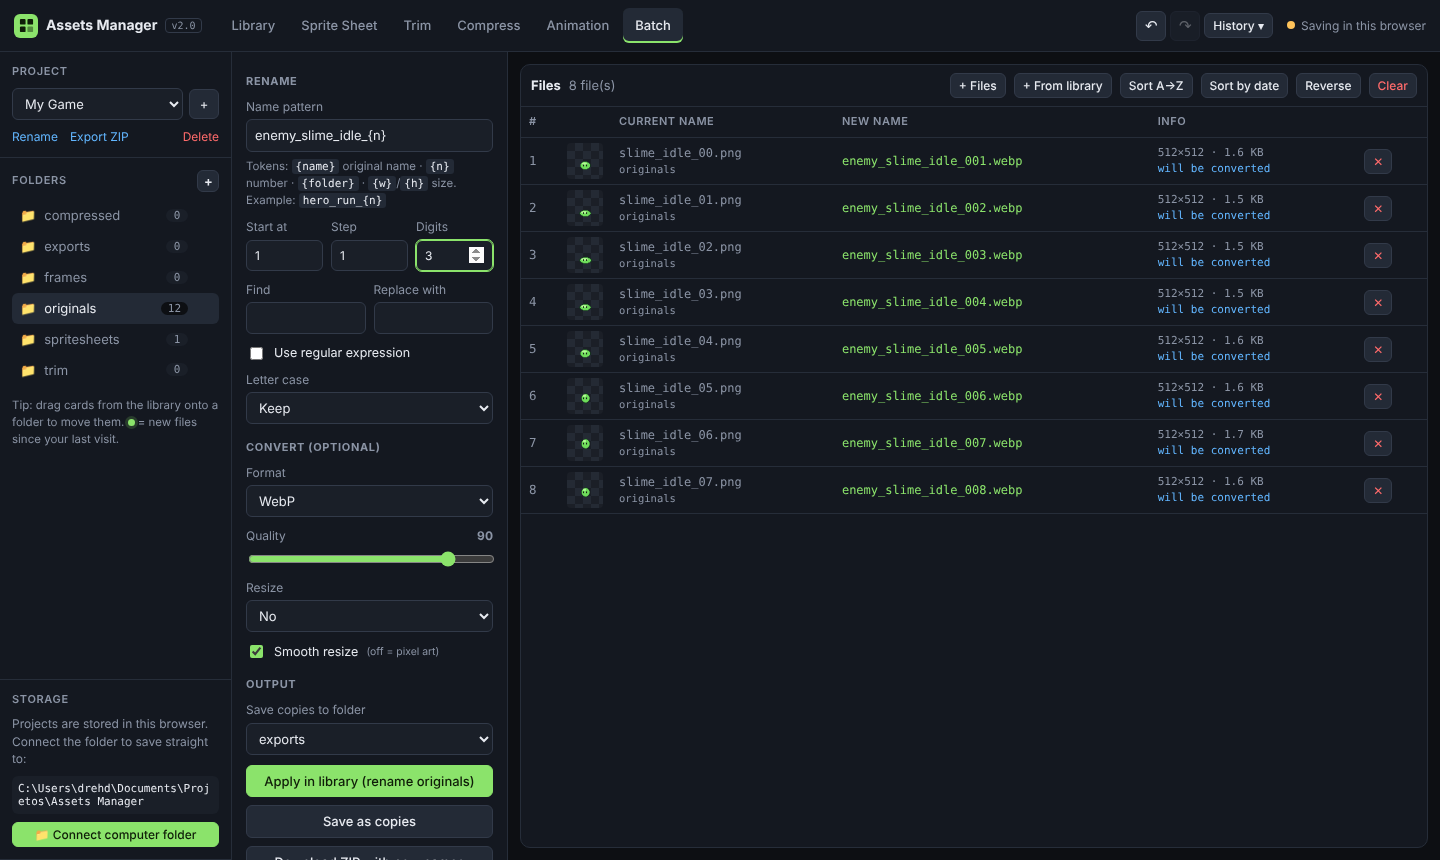
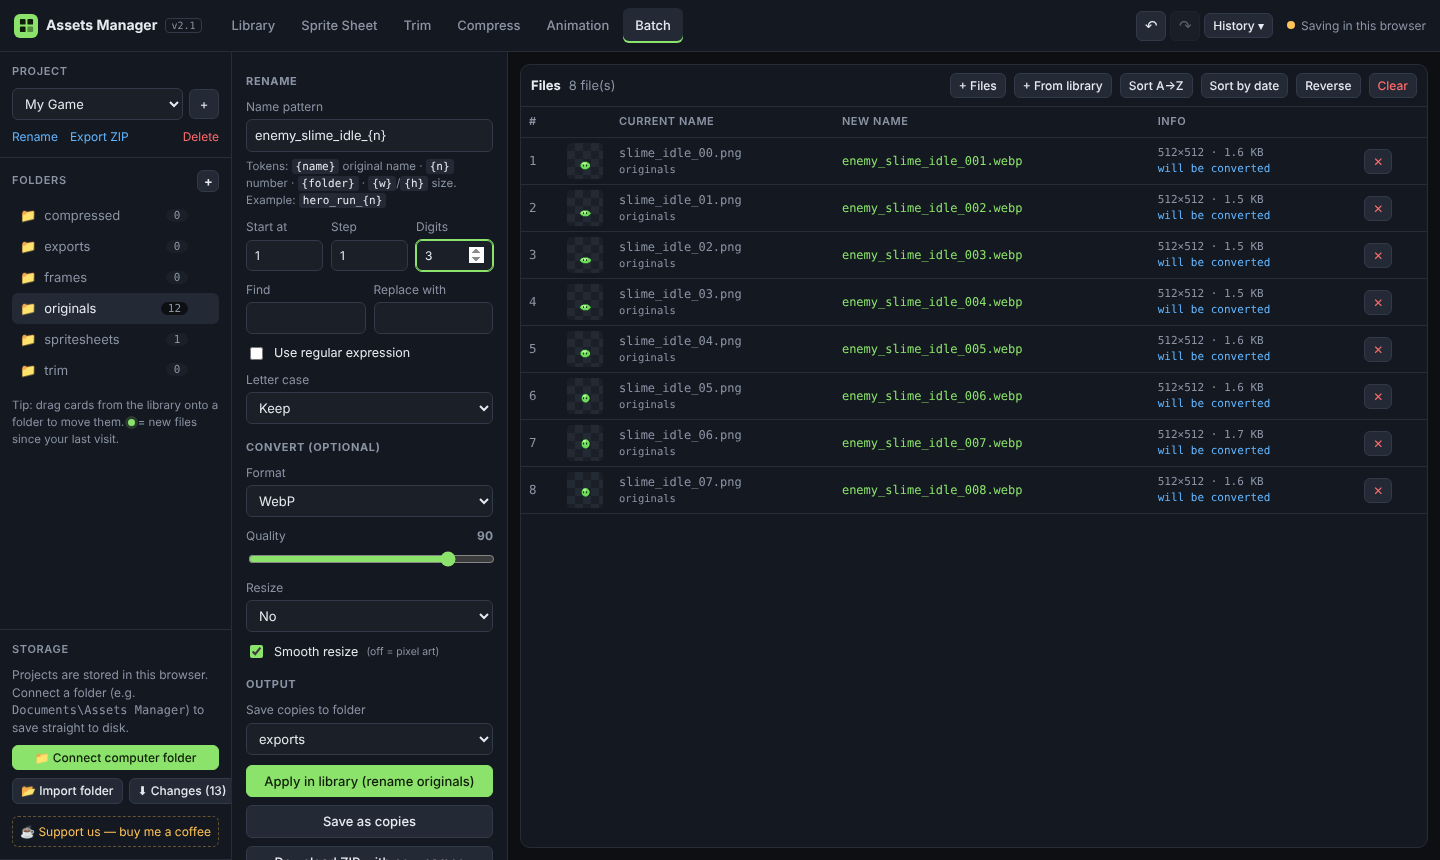
v2.1.0: folder sync for any browser + Support link
- Import folder (webkitdirectory) reads a whole folder tree into
  projects/folders in Firefox, Safari and every other browser
- Download changes: ZIP with only new/modified files, same structure,
  ready to extract over the Assets Manager folder
- Connect computer folder only shown where the File System Access API exists
- Select the first non-empty folder when opening a project
- Buy Me a Coffee support link in the app, README and FUNDING.yml
- Docs, tutorial and screenshots updated

Claude-Session: https://claude.ai/code/session_015Q85gZaRLgoCTDuuC3bRzS

Changed region(s): [[0.0, 0.7256, 0.1562, 0.9977]]

diff --git a/js/app.js b/js/app.js
@@ -5,7 +5,9 @@ const App = {
   assets: [], selected: new Set(), lastClicked: null, filter: '',
   urls: new Map(), tab: 'library',
 };
-const ROOT_HINT = 'C:\\Users\\drehd\\Documents\\Projetos\\Assets Manager';
+const ROOT_HINT = 'Documents\\Assets Manager';
+const SUPPORT_URL = 'https://buymeacoffee.com/drehdantas';
+const canPickDir = () => 'showDirectoryPicker' in window && window.self === window.top;
 const TABS = ['library', 'sheet', 'trim', 'compress', 'anim', 'batch'];
 const assetKey = a => `${a.project}/${a.folder}/${a.name}`;
 function assetURL(a) {
@@ -20,7 +22,7 @@ async function snap(a) {
   const blob = App.backend.kind === 'disk' ? new Blob([await a.blob.arrayBuffer()], { type: a.blob.type || mimeOf(a.name) }) : a.blob;
   return { project: a.project, folder: a.folder, name: a.name, meta: a.meta || null, blob };
 }
-async function afterLibChange() { await refreshFolders(App.folder); }
+async function afterLibChange() { await refreshFolders(App.folder); if (App.backend.kind !== 'disk') updateStorageUI(); }
 async function opSave(list, label, { record = true, refresh = true } = {}) {
   const be = App.backend; const done = [];
   for (const it of list) { const p = it.project || App.project; const name = await be.saveAsset(p, it.folder, it.name, it.blob, it.meta || null); done.push({ ...it, project: p, name }); }
@@ -90,8 +92,10 @@ async function refreshFolders(select) {
   if (!App.folders.length) { for (const f of DEFAULT_FOLDERS) await App.backend.createFolder(App.project, f); App.folders = await App.backend.listFolders(App.project); }
   const want = select || App.folder;
   const prev = App.folder;
-  App.folder = App.folders.includes(want) ? want : (App.folders.find(f => /^origina/i.test(f)) || App.folders[0]);
   try { App.stats = await App.backend.folderStats(App.project); } catch (e) { App.stats = {}; }
+  const cnt = f => (App.stats[f] || {}).count || 0;
+  const orig = App.folders.find(f => /^origina/i.test(f));
+  App.folder = App.folders.includes(want) ? want : (orig && cnt(orig) ? orig : (App.folders.find(f => cnt(f) > 0) || orig || App.folders[0]));
   for (const f of App.folders) if (!App.seen[seenKey(f)]) { const st = App.stats[f] || { count: 0, latest: 0 }; App.seen[seenKey(f)] = { t: st.latest, count: st.count }; }
   if (prev !== App.folder || !App.newSince) { const s = App.seen[seenKey(App.folder)]; App.newSince = s ? s.t : Date.now(); }
   markSeen(App.folder);
@@ -383,13 +387,103 @@ function updateStorageUI() {
         h('button', { class: 'btn sm', onclick: copyBrowserToDisk }, 'Copy browser projects → folder'),
         h('button', { class: 'btn sm', onclick: disconnectFolder }, 'Disconnect folder')));
   } else {
-    p.append(h('p', {}, 'Projects are stored in this browser. Connect the folder to save straight to:'),
-      h('div', { class: 'path' }, ROOT_HINT),
+    const direct = canPickDir();
+    const changesBtn = h('button', { class: 'btn sm', onclick: downloadChanges, title: 'Download what changed since the last import/sync as a ZIP with the same folder structure' }, '⬇ Download changes');
+    p.append(h('p', {}, direct ? 'Projects are stored in this browser. Connect a folder (e.g. ' : 'Projects are stored in this browser. This browser can\'t write to folders directly, so sync with your ', direct ? h('span', { class: 'mono' }, ROOT_HINT) : h('b', {}, 'Assets Manager folder'), direct ? ') to save straight to disk.' : ' using Import / Download changes.'),
       h('div', { class: 'stack' },
-        App.pendingHandle ? h('button', { class: 'btn sm primary', onclick: reconnectFolder }, `Reconnect "${App.pendingHandle.name}"`) : null,
-        h('button', { class: 'btn sm' + (App.pendingHandle ? '' : ' primary'), onclick: connectFolder }, '📁 Connect computer folder')));
+        direct && App.pendingHandle ? h('button', { class: 'btn sm primary', onclick: reconnectFolder }, `Reconnect "${App.pendingHandle.name}"`) : null,
+        direct ? h('button', { class: 'btn sm' + (App.pendingHandle ? '' : ' primary'), onclick: connectFolder }, '📁 Connect computer folder') : null,
+        h('div', { class: 'row' },
+          h('button', { class: 'btn sm' + (direct ? '' : ' primary'), style: { flex: 1 }, onclick: importFolder, title: 'Read a folder from your computer (works in every browser)' }, '📂 Import folder'),
+          changesBtn)));
+    syncChangeCount().then(n => { changesBtn.textContent = `⬇ Changes (${n})`; changesBtn.disabled = !n; }).catch(() => { });
   }
+  p.append(h('a', { class: 'support-link', href: SUPPORT_URL, target: '_blank', rel: 'noopener' }, '☕ Support us — buy me a coffee'));
 }
+
+/* ---------- any-browser folder sync: import a folder, download what changed ---------- */
+function pickDirectory() {
+  return new Promise(res => {
+    const inp = h('input', { type: 'file', multiple: true }); inp.webkitdirectory = true;
+    inp.addEventListener('change', () => res([...inp.files]));
+    inp.addEventListener('cancel', () => res([]));
+    inp.click();
+  });
+}
+async function getSyncBase() { return (await Store.kvGet('syncBase')) || {}; }
+async function setSyncBase(project, data) { const b = await getSyncBase(); b[project] = { ...(b[project] || {}), ...data }; await Store.kvSet('syncBase', b); }
+async function syncChangeCount() {
+  const base = (await getSyncBase())[App.project]; const t = base ? base.t : 0;
+  return (await Store.aAll()).filter(a => a.project === App.project && (a.created || 0) > t).length;
+}
+async function importFolder() {
+  const files = (await pickDirectory()).filter(f => !['other'].includes(kindOf(f.name, f.type)));
+  if (!files.some(f => kindOf(f.name, f.type) !== 'json')) { if (files.length) toast('No images or videos found in that folder', 'warn'); return; }
+  const rel = f => (f.webkitRelativePath || f.name).split('/');
+  const root = rel(files[0])[0];
+  const depth = Math.max(...files.map(f => rel(f).length));
+  const def = depth >= 4 ? 'projects' : depth === 3 ? 'project' : 'current';
+  const opt = (v, title, desc) => h('label', { class: 'check', style: { alignItems: 'flex-start' } }, h('input', { type: 'radio', name: 'imode', value: v, checked: v === def }), h('span', {}, h('b', {}, title), h('br'), h('small', {}, desc)));
+  const repl = h('input', { type: 'checkbox', checked: true });
+  const body = h('div', {},
+    h('p', {}, `Found ${files.filter(f => kindOf(f.name, f.type) !== 'json').length} file(s) in "${root}". How should it be imported?`),
+    opt('projects', `"${root}" contains my projects`, `e.g. the Assets Manager folder: ${root}/<project>/<folder>/files`),
+    opt('project', `"${root}" is one project`, `${root}/<folder>/files becomes the project "${root}"`),
+    opt('current', `Add into the current project (${App.project})`, `${root}/files becomes the folder "${root}"`),
+    h('label', { class: 'check', style: { marginTop: '10px' } }, repl, 'Replace files that already exist with the same name'));
+  const mode = await modal({ title: 'Import folder', body, actions: [{ label: 'Cancel', value: null }, { label: 'Import', primary: true, value: b => b.querySelector('input[name=imode]:checked').value }] });
+  if (!mode) return;
+  const target = f => {
+    const parts = rel(f); const name = parts[parts.length - 1]; let project, fp;
+    if (mode === 'projects') { project = parts.length >= 3 ? parts[1] : App.project; fp = parts.slice(2, -1); }
+    else if (mode === 'project') { project = root; fp = parts.slice(1, -1); }
+    else { project = App.project; fp = parts.slice(0, -1); }
+    return { project: sanitize(project), folder: fp.length ? sanitize(fp.join('-')) : 'originals', name };
+  };
+  const be = App.browser; const existing = new Set(await be.listProjects());
+  const jsons = new Map();
+  for (const f of files) if (kindOf(f.name) === 'json') { const t = target(f); try { jsons.set(`${t.project}/${t.folder}/${stem(t.name)}`, atlasToMeta(JSON.parse(await f.text()))); } catch (e) { } }
+  const done = [], overwritten = [], projects = new Set();
+  await withBusy('Importing folder…', async () => {
+    let i = 0; const list = files.filter(f => kindOf(f.name, f.type) !== 'json');
+    for (const f of list) {
+      const t = target(f); projects.add(t.project);
+      if (!existing.has(t.project)) { await be.createProject(t.project).catch(() => { }); existing.add(t.project); }
+      if (repl.checked) { const old = await Store.aGet(`${t.project}/${t.folder}/${t.name}`); if (old) overwritten.push(old); }
+      const name = await be.saveAsset(t.project, t.folder, t.name, f, jsons.get(`${t.project}/${t.folder}/${stem(t.name)}`) || null, { overwrite: repl.checked });
+      done.push({ project: t.project, folder: t.folder, name });
+      if (++i % 20 === 0) busy(`Importing folder… ${i}/${list.length}`);
+    }
+  });
+  const now = Date.now() + 1;
+  for (const pr of projects) await setSyncBase(pr, { t: now, root, mode });
+  History.push(`Import folder ${root} (${done.length} files)`,
+    async () => { for (const d of done) await be.deleteAsset(d.project, d.folder, d.name).catch(() => { }); for (const o of overwritten) await Store.aPut(o); },
+    async () => { toast('Re-import the folder to redo this', 'warn'); });
+  toast(`Imported ${done.length} file(s) into ${projects.size} project(s)`, 'ok', 5000);
+  App.folder = null; await refreshProjects(projects.has(App.project) ? App.project : [...projects].sort(naturalCmp)[0]); updateStorageUI();
+}
+async function downloadChanges() {
+  const base = (await getSyncBase())[App.project]; const t = base ? base.t : 0;
+  const changed = (await Store.aAll()).filter(a => a.project === App.project && (a.created || 0) > t);
+  if (!changed.length) return toast('No changes since the last sync', 'info');
+  const files = [];
+  for (const a of changed) for (const x of await assetFiles(a)) files.push({ name: `${App.project}/${a.folder}/${x.name}`, blob: x.blob });
+  const d = new Date(), pad = n => String(n).padStart(2, '0');
+  const zipName = `${sanitize(App.project)}_changes_${d.getFullYear()}-${pad(d.getMonth() + 1)}-${pad(d.getDate())}_${pad(d.getHours())}${pad(d.getMinutes())}.zip`;
+  const ok = await downloadBlob(zipName, await makeZip(files));
+  if (!ok) return;
+  await setSyncBase(App.project, { t: Date.now() + 1 });
+  updateStorageUI();
+  modal({
+    title: 'Changes downloaded', body: h('div', {},
+      h('p', {}, `${changed.length} new or changed file(s) were saved in `, h('b', {}, zipName), '.'),
+      h('p', {}, 'Extract the ZIP ', h('b', {}, `into the folder that contains "${App.project}"`), ` (for example ${ROOT_HINT}) and choose "Replace" when asked. The files land in the right project sub-folders.`),
+      h('p', {}, 'Deleted or renamed files are not removed from your computer automatically; delete the old ones by hand if needed.')),
+    actions: [{ label: 'OK', primary: true, value: true }]
+  });
+}
+
 async function useDisk(handle) {
   App.backend = new DiskBackend(handle); App.pendingHandle = null;
   try { await Store.kvSet('rootHandle', handle); } catch (e) { }
@@ -397,7 +491,7 @@ async function useDisk(handle) {
   toast(`Connected to folder "${handle.name}"`, 'ok');
 }
 async function connectFolder() {
-  if (!window.showDirectoryPicker) return folderHelp('This browser does not allow direct folder access.');
+  if (!canPickDir()) return folderHelp('This browser does not allow direct folder access.');
   try { await useDisk(await window.showDirectoryPicker({ id: 'assets-manager', mode: 'readwrite', startIn: 'documents' })); }
   catch (e) { if (e && e.name === 'AbortError') return; folderHelp('Folder access is blocked in this window (' + (e && e.name || 'error') + ').'); }
 }
@@ -413,8 +507,8 @@ function folderHelp(reason) {
   return modal({
     title: 'Save straight to your computer folder', body: h('div', {},
       h('p', {}, reason),
-      h('p', {}, h('b', {}, 'To write straight to the folder: '), 'open the file ', h('b', {}, 'Assets Manager.html'), ' (it is in ', h('span', { class: 'mono' }, ROOT_HINT), ') in Chrome or Edge, click "Connect computer folder" and choose the Assets Manager folder. Each project becomes a sub-folder.'),
-      h('p', {}, 'Meanwhile everything is stored in this browser, and you can use ', h('b', {}, 'Export ZIP'), ' and extract it inside the folder.')),
+      h('p', {}, h('b', {}, 'To write straight to a folder: '), 'open the app in Chrome or Edge (online at drehdantas.github.io/assets-manager, or the single-file version), click "Connect computer folder" and choose your Assets Manager folder. Each project becomes a sub-folder.'),
+      h('p', {}, 'In other browsers (Firefox, Safari…) use ', h('b', {}, '📂 Import folder'), ' to load your folder and ', h('b', {}, '⬇ Changes'), ' to download what changed as a ZIP with the same structure.')),
     actions: [{ label: 'Got it', primary: true, value: true }]
   });
 }
@@ -445,6 +539,7 @@ async function renameProject() {
   const be = App.backend;
   try {
     await withBusy('Renaming project…', () => be.renameProject(old, nn));
+    try { const sb = await getSyncBase(); if (sb[old]) { sb[nn] = sb[old]; delete sb[old]; await Store.kvSet('syncBase', sb); } } catch (e) { }
     History.push(`Rename project ${old} → ${nn}`, async () => { await be.renameProject(nn, old); App.project = old; await refreshProjects(old); }, async () => { await be.renameProject(old, nn); App.project = nn; await refreshProjects(nn); });
     App.project = nn; await refreshProjects(nn); updateStorageUI(); toast('Project renamed', 'ok');
   } catch (e) { toast(e.message, 'err'); }

diff --git a/index.html b/index.html
@@ -16,7 +16,7 @@
 </head>
 <body>
 <header class="topbar">
-  <div class="brand"><span class="logo"><svg viewBox="0 0 16 16" fill="currentColor"><rect x="1" y="1" width="6" height="6" rx="1"/><rect x="9" y="1" width="6" height="6" rx="1"/><rect x="1" y="9" width="6" height="6" rx="1"/><rect x="9" y="9" width="6" height="6" rx="1" opacity=".45"/></svg></span>Assets Manager <span class="ver">v2.0</span></div>
+  <div class="brand"><span class="logo"><svg viewBox="0 0 16 16" fill="currentColor"><rect x="1" y="1" width="6" height="6" rx="1"/><rect x="9" y="1" width="6" height="6" rx="1"/><rect x="1" y="9" width="6" height="6" rx="1"/><rect x="9" y="9" width="6" height="6" rx="1" opacity=".45"/></svg></span>Assets Manager <span class="ver">v2.1</span></div>
   <nav class="tabs" id="tabs">
     <button data-tab="library" class="active">Library</button>
     <button data-tab="sheet">Sprite Sheet</button>

diff --git a/css/style.css b/css/style.css
@@ -303,3 +303,6 @@ table.bt tr{cursor:grab}
 .exp-sum b{color:var(--text)}
 .progress{height:6px;background:var(--panel3);border-radius:4px;overflow:hidden;margin-top:10px}
 .progress>div{height:100%;background:var(--accent);width:0}
+
+.support-link{display:block;margin-top:12px;font-size:12px;color:var(--warn);text-decoration:none;text-align:center;padding:6px;border:1px dashed rgba(255,195,90,.35);border-radius:6px}
+.support-link:hover{background:rgba(255,195,90,.08);color:#ffd27e}

diff --git a/sw.js b/sw.js
@@ -1,5 +1,5 @@
 /* Assets Manager service worker — caches the app shell so it works offline. Bump VERSION on every release. */
-const VERSION = 'am-v2.0.0';
+const VERSION = 'am-v2.1.0';
 const SHELL = [
   './', './index.html', './manifest.webmanifest', './css/style.css',
   './vendor/mp4-muxer.js', './vendor/webm-muxer.js',

diff --git a/README.md b/README.md
@@ -10,7 +10,8 @@ Sprite sheets · trim & background removal · lossless compression · batch rena
 [**▶ Open the app**](https://drehdantas.github.io/assets-manager/) &nbsp;·&nbsp;
 [Tutorial](docs/TUTORIAL.md) &nbsp;·&nbsp;
 [Download single-file version](https://drehdantas.github.io/assets-manager/assets-manager.html) &nbsp;·&nbsp;
-[Changelog](CHANGELOG.md)
+[Changelog](CHANGELOG.md) &nbsp;·&nbsp;
+[☕ Support](https://buymeacoffee.com/drehdantas)
 
 ![Assets Manager — sprite sheet maker](docs/screenshots/sprite-sheet.png)
 
@@ -36,7 +37,7 @@ Drawing tools export every frame at the full canvas size, with lots of empty spa
 | 🎞 **Export** | **GIF, MP4 (H.264) and WebM (VP9)** at sprite scale, or with **social media presets** (Instagram, Reels/TikTok/Shorts, Stories, YouTube, X, LinkedIn, Facebook, Bluesky, Discord, Steam, itch.io). Length is always a **whole number of loops**, within each platform's limit. |
 | ☰ **Batch** | Rename many files with patterns (`hero_run_{n}`), numbering, find & replace (with regex) and case styles (snake_case, kebab-case, PascalCase…). Optionally convert to PNG/WebP/JPG and resize. Apply to the library, save copies or download a ZIP. |
 | ↶ **History** | Undo and redo (Ctrl+Z / Ctrl+Shift+Z) for library changes and tool edits, plus a history list to jump back to any step. |
-| 💾 **Storage** | Saves in the browser by default, or **straight to a folder on your computer** (Chrome/Edge), one sub-folder per project. Sprite sheets keep their `.json` next to the `.png`. |
+| 💾 **Storage** | Saves in the browser by default, or **straight to a folder on your computer** (Chrome/Edge), one sub-folder per project. **In any browser** (Firefox, Safari…), **Import folder** loads your folder tree and **Download changes** returns what changed as a ZIP with the same structure. Sprite sheets keep their `.json` next to the `.png`. |
 
 <table>
 <tr>
@@ -75,7 +76,8 @@ There is no build step: `index.html` loads plain JavaScript files. Any static se
 | Library, Sprite Sheet, Trim, Compress, Batch, GIF export | ✅ | ✅ |
 | Frame-by-frame GIF playback (ImageDecoder) | ✅ | ⚠ depends on the browser; falls back to normal playback |
 | MP4 / WebM export (WebCodecs) | ✅ | ⚠ depends on the browser; the button is disabled if unsupported |
-| Save straight to a computer folder | ✅ | ❌ use **Export ZIP** instead |
+| Save straight to a computer folder (live) | ✅ | ❌ |
+| Sync with a computer folder (**Import folder** + **Download changes**) | ✅ | ✅ |
 
 Use **Chrome or Edge on desktop** for the full experience; it's what the app is tested on.
 
@@ -157,6 +159,14 @@ No analytics, no tracking, no uploads. The only network requests are the Google 
 - [ ] Desktop build (Tauri) for native folder watching
 
 Suggestions and bug reports are welcome in [Issues](https://github.com/drehdantas/assets-manager/issues).
+
+## Support
+
+Assets Manager is free and open source. If it saves you time, you can support its development:
+
+<a href="https://buymeacoffee.com/drehdantas"><img src="https://img.shields.io/badge/Buy%20me%20a%20coffee-%E2%98%95-FFDD00?style=for-the-badge&logo=buymeacoffee&logoColor=black" alt="Buy me a coffee"></a>
+
+Starring the repository ⭐, reporting bugs and sharing the tool with other devs also helps a lot.
 
 ## Contributing
 

diff --git a/docs/TUTORIAL.md b/docs/TUTORIAL.md
@@ -51,6 +51,19 @@ The bottom-left **Storage** panel shows it:
   - The browser asks for permission once. If it asks again after a restart, click **Reconnect**.
   - Use **Copy browser projects → folder** to move work you did before connecting.
 
+### Firefox, Safari and other browsers: Import folder + Download changes
+Only Chrome and Edge let a website write to a folder directly. In every other browser, keep your folder in sync in two steps:
+
+1. **📂 Import folder** (Storage panel): pick your `Assets Manager` folder, or a single project folder. Choose how to read it:
+   - *contains my projects*: `Assets Manager/<project>/<folder>/files` creates one project per sub-folder
+   - *is one project*: `<project>/<folder>/files`
+   - *add into the current project*: `<folder>/files`
+   Tick **Replace files that already exist** to refresh files you edited outside the app. Atlas `.json` files next to sprite sheets are read too.
+2. Work normally. The **⬇ Changes (N)** button counts files created or modified since the import.
+3. Click **⬇ Changes** to download a ZIP named like `My Game_changes_2026-10-28_1713.zip`. It already has the `My Game/<folder>/file` structure. **Extract it into your `Assets Manager` folder** and choose *Replace*. The counter then goes back to 0.
+
+> Deleted or renamed files are not removed from your disk by the ZIP; remove the old copies by hand. Chrome/Edge's **Connect computer folder** doesn't have this limitation.
+
 ---
 
 ## 2. Library
@@ -238,8 +251,8 @@ Open it from **Export GIF / video…** in the Sprite Sheet preview, or **Export 
 
 ## 11. FAQ and troubleshooting
 
-**The "Connect computer folder" button shows a message instead of a folder picker.**
-Your browser or window doesn't allow folder access (e.g. Firefox/Safari, or the app embedded in another page). Use Chrome/Edge with the online app or the single-file version, or use **Export ZIP**.
+**I use Firefox / Safari. How do I work with my folder?**
+Use **📂 Import folder** and **⬇ Changes** in the Storage panel (see [section 1](#firefox-safari-and-other-browsers-import-folder--download-changes)). The "Connect computer folder" button only appears in Chrome and Edge.
 
 **MP4/WebM buttons are disabled.**
 Your browser doesn't support video encoding (WebCodecs). Use Chrome or Edge, or export a GIF.
@@ -252,6 +265,9 @@ In browser storage mode they are deleted with the site data. Keep backups with *
 
 **The online app didn't update.**
 It works offline through a cache. Close every tab of the app and open it again (or press Ctrl+F5).
+
+**How can I support the project?**
+☕ [buymeacoffee.com/drehdantas](https://buymeacoffee.com/drehdantas). Thank you!
 
 **How do I report a bug or suggest a feature?**
 Open an issue at https://github.com/drehdantas/assets-manager/issues.

diff --git a/CHANGELOG.md b/CHANGELOG.md
@@ -1,5 +1,11 @@
 # Changelog
 
+## 2.1.0 — 2026-10-28
+- **Folder sync in any browser** (Firefox, Safari…): *Import folder* reads a whole folder tree into projects/folders, and *Download changes* returns new or modified files as a ZIP with the same structure
+- "Connect computer folder" only shows in browsers that support it
+- After opening a project, the first folder with files is selected
+- ☕ Support link (Buy Me a Coffee) in the app and README
+
 ## 2.0.0 — 2026-10-28
 - Export animations as **GIF, MP4 (H.264) and WebM (VP9)**, at sprite scale or with **social media presets**; length always a whole number of loops
 - **Manual crop editor** in Trim (draw, move, resize, numeric input, apply to all)
